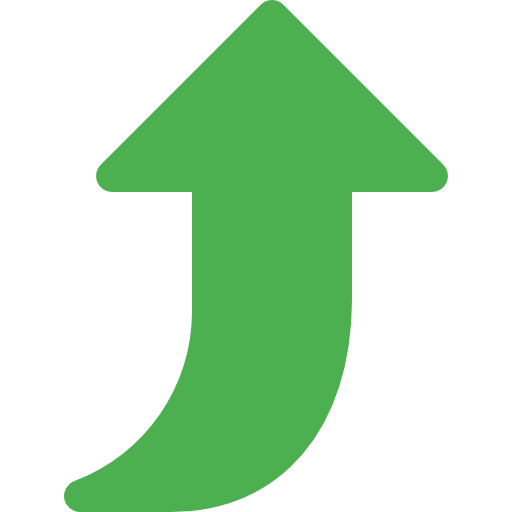
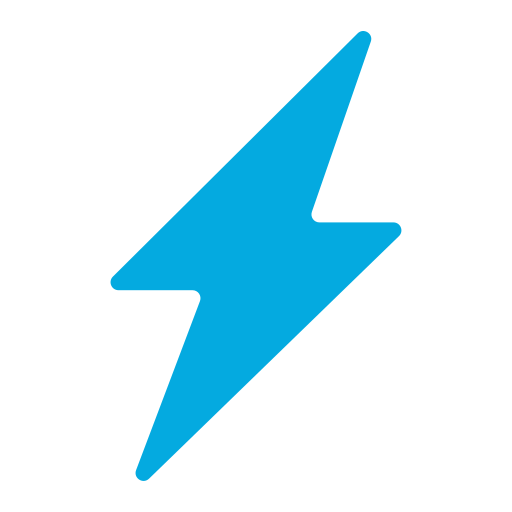
chart_Backend

diff --git a/frontend/src/components/Charts.jsx b/frontend/src/components/Charts.jsx
@@ -1,0 +1,71 @@
+import { useContext, useEffect, useState } from "react";
+import { UserContext } from "../context/UserContext";
+import {
+  BarChart,
+  Bar,
+  XAxis,
+  YAxis,
+  Tooltip,
+  ResponsiveContainer,
+} from "recharts";
+
+const Charts = () => {
+  const { token } = useContext(UserContext);
+  const [chartData, setChartData] = useState();
+
+  const fetchChartData = async () => {
+    try {
+      const res = await fetch(
+        "https://pomoxp-production.up.railway.app/api/cards/chart_data",
+        {
+          headers: {
+            "Content-Type": "application/json",
+            Authorization: `Bearer ${token}`,
+          },
+        },
+      );
+
+      if (!res.ok) {
+        const err = await res.json();
+        throw Error(err?.message || "Request failed");
+      }
+
+      const data = await res.json();
+      return data;
+    } catch (error) {
+      console.error(error);
+    }
+  };
+
+  useEffect(() => {
+    const savedData = localStorage.getItem("chartData");
+    if (savedData) setChartData(JSON.parse(savedData));
+
+    const setData = async () => {
+      const data = await fetchChartData();
+      if (!data) return;
+
+      setChartData(data);
+      localStorage.setItem("chartData", JSON.stringify(data));
+    };
+
+    setData();
+  }, [token]);
+
+  console.log(chartData);
+
+  return (
+    <div>
+      <ResponsiveContainer>
+        <BarChart>
+          <XAxis />
+          <YAxis />
+          <Tooltip />
+          <Bar />
+        </BarChart>
+      </ResponsiveContainer>
+    </div>
+  );
+};
+
+export default Charts;

diff --git a/backend/controllers/cardController.js b/backend/controllers/cardController.js
@@ -98,3 +98,42 @@ export const postCards = async (req, res) => {
     return res.status(500).json({ message: err.message });
   }
 };
+
+export const chart_data = async (req, res) => {
+  try {
+    const userId = req.userId;
+    if (!userId) return res.status(400).json({ message: "Unathorized" });
+
+    const cardss = await db
+      .select()
+      .from(cards)
+      .where(eq(cards.user_id, userId));
+
+    if (!cardss)
+      return res.status(400).json({ message: "nao esta achando o cards" });
+
+    let data = {};
+
+    cardss.map((c) => {
+      const date = c.created_at.toISOString().split("T")[0];
+
+      if (!data[date]) {
+        data[date] = [];
+      }
+      data[date].push({ date: date, xp: c.minutes });
+    });
+
+    const chartData = Object.entries(data).map((d) => {
+      const totalXp = d[1].reduce((acc, c) => {
+        return acc + c.xp;
+      }, 0);
+
+      return { date: d[0], total_xp: totalXp };
+    });
+
+    res.status(200).json(chartData);
+  } catch (error) {
+    console.error(error);
+    res.status(500).json({ error: "Internal server error" });
+  }
+};

diff --git a/frontend/src/components/Report.jsx b/frontend/src/components/Report.jsx
@@ -11,6 +11,7 @@ import {
   SlClock,
   SlFire,
 } from "react-icons/sl";
+import Charts from "./Charts";
 const Report = (props) => {
   const { reportPage, setReportPage } = props;
   const boxRef = useRef();
@@ -227,7 +228,7 @@ const Report = (props) => {
               <SlFire className="reportClock reportFire" />
               <div className="reportBoxBot">
                 <div className="reportTopNum">{streak}</div>
-                <div>day streak</div>
+                <div>days streak</div>
               </div>
             </div>
           </div>
@@ -286,7 +287,10 @@ const Report = (props) => {
                 </button>
               </div>
             </div>
-            <div> </div>
+            <div>
+              {" "}
+              <Charts />{" "}
+            </div>
           </div>
         </div>
         <div

diff --git a/backend/routes/cardsRoute.js b/backend/routes/cardsRoute.js
@@ -1,9 +1,15 @@
 import express from "express";
 import { authMiddleware } from "../middleware/authMiddleware.js";
-import { getCard, postCards } from "../controllers/cardController.js";
+import {
+  chart_data,
+  getCard,
+  postCards,
+} from "../controllers/cardController.js";
 
 export const route = express.Router();
 
+route.get("/chart_data", chart_data);
 route.use(authMiddleware);
 route.get("/", getCard);
+
 route.post("/", postCards);

diff --git a/backend/server.js b/backend/server.js
@@ -14,11 +14,12 @@ import { stripeWebhookController } from "./controllers/stripeController.js";
 const app = express();
 const PORT = process.env.PORT || 3000;
 
-app.use(
-  cors({
-    origin: ["http://localhost:5173", "https://pomoxp.com"],
-  }),
-);
+// app.use(
+//   cors({
+//     origin: ["http://localhost:5173", "https://pomoxp.com"],
+//   }),
+// );
+app.use(cors());
 
 app.post(
   "/api/stripe/webhook",

diff --git a/frontend/src/components/AddNote.jsx b/frontend/src/components/AddNote.jsx
@@ -255,6 +255,7 @@ const AddNote = (props) => {
             placeholder="Title"
           />
           <textarea
+            spellCheck={false}
             placeholder="Write your note..."
             onChange={(e) => {
               setNoteContent(e.target.value);
